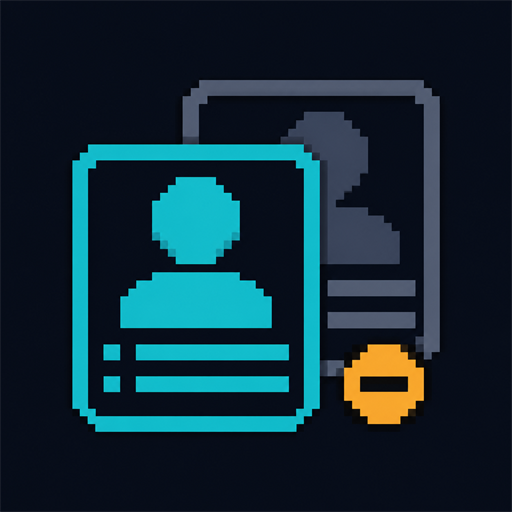
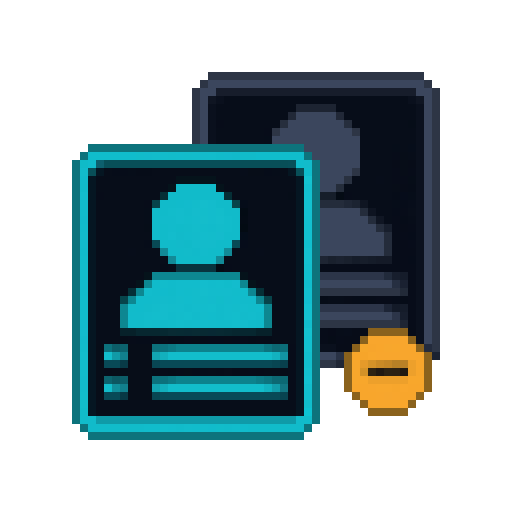
Release Free Agent Cleanup v0.1.4

diff --git a/CHANGELOG.md b/CHANGELOG.md
@@ -7,6 +7,13 @@ The project uses [Semantic Versioning](https://semver.org/).
 
 ## [Unreleased]
 
+## [0.1.4] - 2026-07-28
+
+### Changed
+
+- Replaced the initial Workshop thumbnail with the creator-provided pixel-art
+  revision.
+
 ## [0.1.3] - 2026-07-28
 
 ### Changed
@@ -51,6 +58,7 @@ The project uses [Semantic Versioning](https://semver.org/).
 - Authoritative retirement through the game server extension.
 - Per-save cleanup count and name records in the mod save namespace.
 
-[Unreleased]: https://github.com/MadManPetr1/tfm2-real-world-free-agent-cleanup/compare/v0.1.3...HEAD
+[Unreleased]: https://github.com/MadManPetr1/tfm2-real-world-free-agent-cleanup/compare/v0.1.4...HEAD
+[0.1.4]: https://github.com/MadManPetr1/tfm2-real-world-free-agent-cleanup/compare/v0.1.3...v0.1.4
 [0.1.3]: https://github.com/MadManPetr1/tfm2-real-world-free-agent-cleanup/compare/v0.1.2...v0.1.3
 [0.1.2]: https://github.com/MadManPetr1/tfm2-real-world-free-agent-cleanup/tree/v0.1.2

diff --git a/README.md b/README.md
@@ -7,7 +7,7 @@ by Crown.
 [Rules](#cleanup-rules) · [Installation](#installation) · [Save safety](#save-safety) · [Building](#building-from-source)
 
 > [!IMPORTANT]
-> Version **0.1.3** is built for Teamfight Manager 2 **0.5.2**.
+> Version **0.1.4** is built for Teamfight Manager 2 **0.5.2**.
 
 This mod exists because Real World Database '26 imports real players and
 rosters while Teamfight Manager 2 can still supply overlapping generated free

diff --git a/docs/PRESENTATION.md b/docs/PRESENTATION.md
@@ -62,7 +62,7 @@ not appropriate for your database.
 
 COMPATIBILITY
 
-Version 0.1.3 is built for Teamfight Manager 2 0.5.2.
+Version 0.1.4 is built for Teamfight Manager 2 0.5.2.
 
 SOURCE AND CONTRIBUTIONS
 
